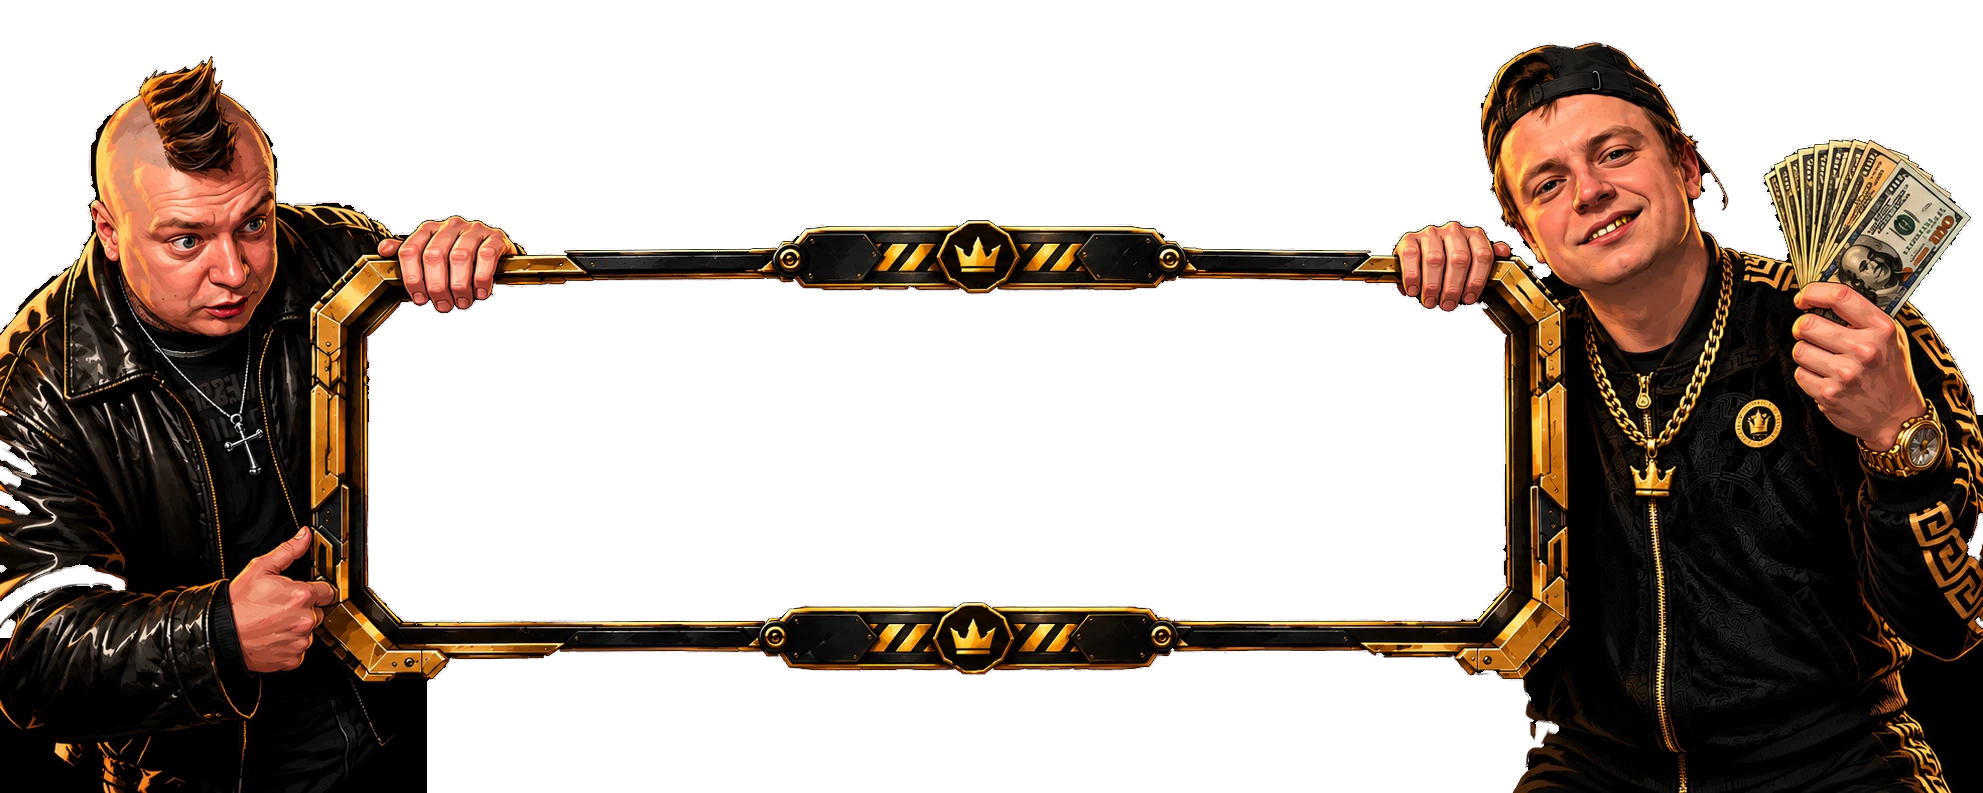
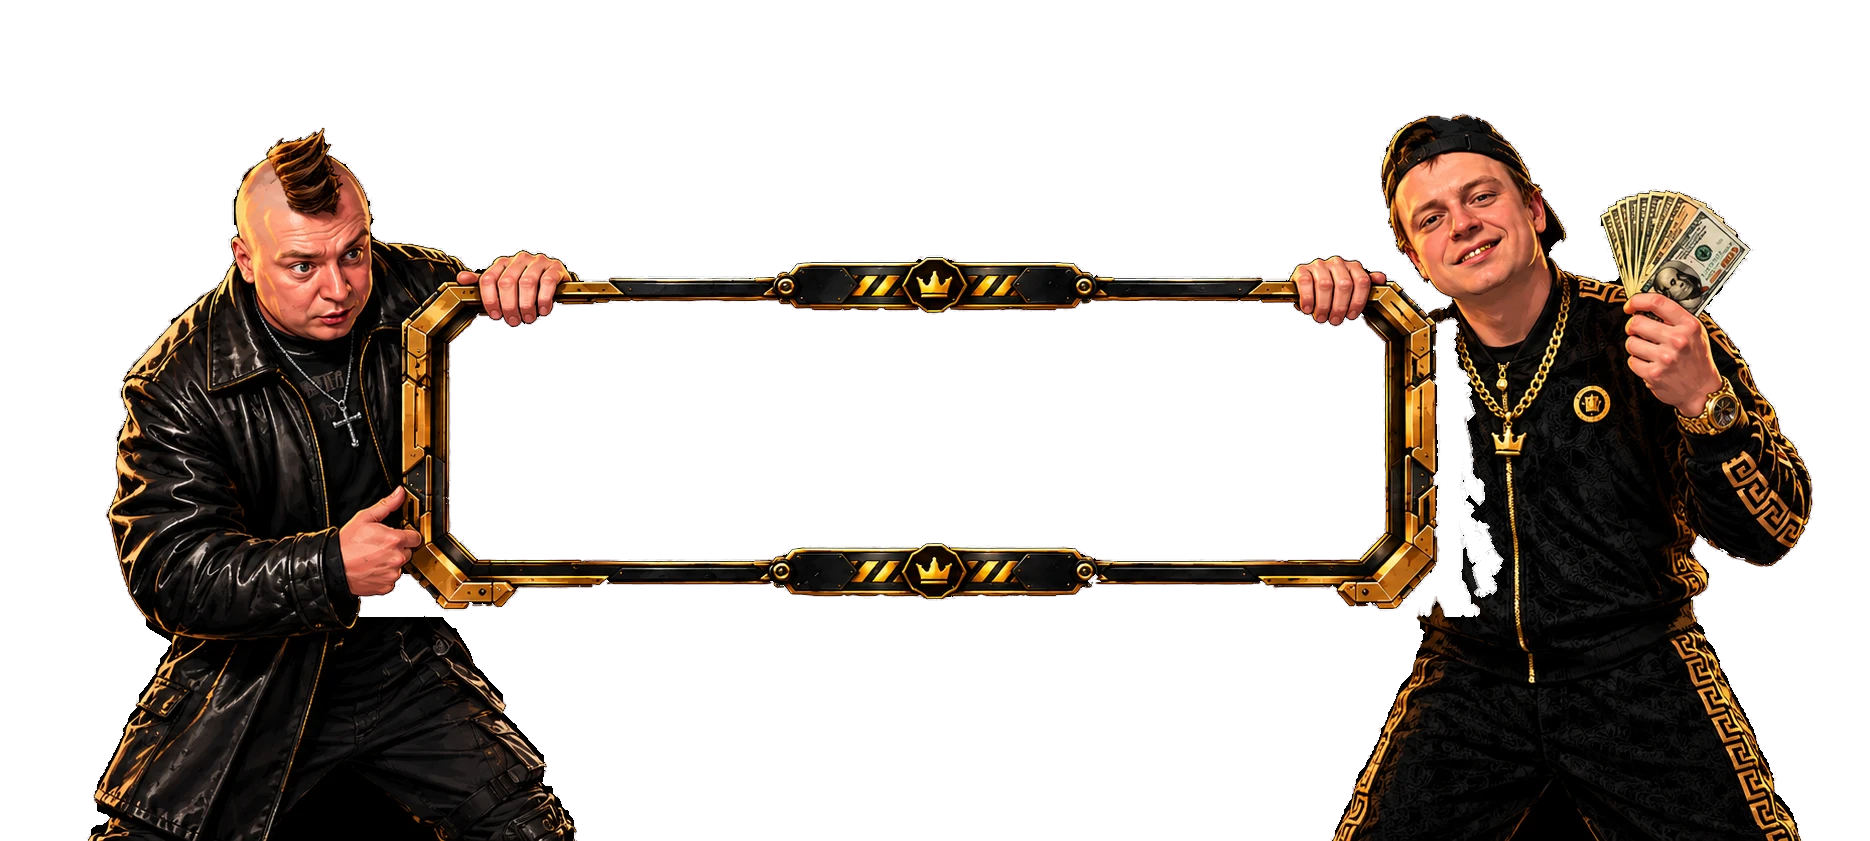
GOLD RUSH: новая рамка 1870×841 (окно, маска, огоньки по углам окна), кейс с фиолетового фона — чистая вырезка по цвету; координаты фар/дыма

diff --git a/js/app.js b/js/app.js
@@ -339,7 +339,7 @@ const CASES = [
     sub: 'Особый кейс: только топовый дроп от 65 000 ₽ — «История о драконе», «Вой», Gungnir, керамбиты и перчатки',
     th: { a: '#f3c14f' }, img: 'assets/case-gold.webp', win: .12,
     strict: true, setX: 'gold', minDrop: 65000,
-    ar: 1224 / 1116, overlay: 'gold', // цепь, фары и дым поверх картинки (качаются вместе с кейсом)
+    ar: 1225 / 1108, overlay: 'gold', // цепь, фары и дым поверх картинки (качаются вместе с кейсом)
     frame: { src: 'assets/frame-gold.png', cls: 'f-gold' }, // своя рамка рулетки
     show: [],
     items: [
@@ -694,9 +694,9 @@ const RINGS = '<div class="ab-rings"><i></i><i></i><i></i></div>';
 const OVERLAYS = {
   // GOLD RUSH: цепь с замком (видео, чёрный фон убирается режимом «экран»), фары машины, дым из ствола AWP
   gold: () => { queueMicrotask(() => ChainFx.start()); return `<canvas class="gx-chain" width="600" height="333" aria-hidden="true"></canvas>
-    <i class="gx-light gx-hl" style="left:75.2%;top:36.4%;width:4.6%"></i><i class="gx-light gx-hl" style="left:94.3%;top:40.1%;width:3.4%"></i>
-    <i class="gx-light gx-drl" style="left:76%;top:44.1%;width:4.6%;height:4.4%"></i><i class="gx-light gx-drl" style="left:95.4%;top:47.5%;width:3.2%;height:4.2%"></i>
-    <span class="gx-smoke" style="left:7.8%;top:23.8%" aria-hidden="true">${Array.from({ length: 7 }, (_, i) => `<i style="--dl:${(i * .55).toFixed(2)}s;--dx:${(-14 - i * 3)}px;--sc:${(1.6 + (i % 3) * .5).toFixed(1)}"></i>`).join('')}</span>`; },
+    <i class="gx-light gx-hl" style="left:75.3%;top:36.5%;width:4.6%"></i><i class="gx-light gx-hl" style="left:94.3%;top:40.1%;width:3.4%"></i>
+    <i class="gx-light gx-drl" style="left:76.1%;top:43.8%;width:4.6%;height:4.4%"></i><i class="gx-light gx-drl" style="left:95.2%;top:47.4%;width:3.2%;height:4.2%"></i>
+    <span class="gx-smoke" style="left:8%;top:23.6%" aria-hidden="true">${Array.from({ length: 7 }, (_, i) => `<i style="--dl:${(i * .55).toFixed(2)}s;--dx:${(-14 - i * 3)}px;--sc:${(1.6 + (i % 3) * .5).toFixed(1)}"></i>`).join('')}</span>`; },
 };
 /* цепь GOLD RUSH: одно скрытое видео рисуется во все canvas.gx-chain, чёрный фон кадра → прозрачность по яркости.
    Когда на странице нет ни одной цепи — видео на паузе */

diff --git a/css/style.css b/css/style.css
@@ -1662,3 +1662,13 @@ p{margin:0}
   .rl-framed.f-gold .rl-frame-img{-webkit-mask-size:64% 87%,100% 100%;mask-size:64% 87%,100% 100%;-webkit-mask-position:42.5% top,center;mask-position:42.5% top,center}
 }
 .gx-smoke i{width:clamp(10px,3vw,30px);background:radial-gradient(circle,rgba(245,240,230,.75),rgba(210,205,200,.32) 45%,transparent 70%);filter:blur(2.5px)}
+/* GOLD RUSH: новая рамка 1870×841 — окно 24.0% / 25.9% / 36.9% / 34.8%, рамка снаружи ≈ 21.4%–77% × 30.4%–72.4% */
+@media (min-width:1101px){
+  .rl-framed.f-gold{aspect-ratio:1870/841}
+  .rl-framed.f-gold .rl-wrap{left:22.8%;right:24.7%;top:35.7%;bottom:33.6%}
+  .rl-framed.f-gold .rl-frame-img{-webkit-mask-size:57% 75%,100% 100%;mask-size:57% 75%,100% 100%;-webkit-mask-position:48.6% top,center;mask-position:48.6% top,center}
+  .rl-framed.f-gold .rl-floor{top:70%}
+  /* огоньки — точно в углах окна, на самой рамке */
+  .rl-framed.f-gold .rl-spark.s1{left:23.6%;top:36.4%}.rl-framed.f-gold .rl-spark.s2{left:74.5%;top:36.4%}
+  .rl-framed.f-gold .rl-spark.s3{left:23.6%;top:65.6%}.rl-framed.f-gold .rl-spark.s4{left:74.5%;top:65.6%}
+}

diff --git a/index.html b/index.html
@@ -11,7 +11,7 @@
 <link rel="preconnect" href="https://fonts.gstatic.com" crossorigin>
 <link href="https://fonts.googleapis.com/css2?family=Manrope:wght@400;500;600;700;800&family=Unbounded:wght@500;600;700;800;900&display=swap" rel="stylesheet">
 <link rel="preload" as="image" href="assets/logo.webp">
-<link rel="stylesheet" href="css/style.css?v=202610222319">
+<link rel="stylesheet" href="css/style.css?v=202610222328">
 </head>
 <body>
 <div id="preloader" role="progressbar" aria-label="Загрузка RUSH CASE" aria-valuemin="0" aria-valuemax="100" aria-valuenow="0">
@@ -100,9 +100,9 @@
 <div id="modal-root"></div>
 <div id="toasts" aria-live="polite"></div>
 
-<script src="js/skins.js?v=202610222319"></script>
-<script src="js/wears.js?v=202610222319"></script>
-<script src="js/extra.js?v=202610222319"></script>
-<script src="js/app.js?v=202610222319"></script>
+<script src="js/skins.js?v=202610222328"></script>
+<script src="js/wears.js?v=202610222328"></script>
+<script src="js/extra.js?v=202610222328"></script>
+<script src="js/app.js?v=202610222328"></script>
 </body>
 </html>
